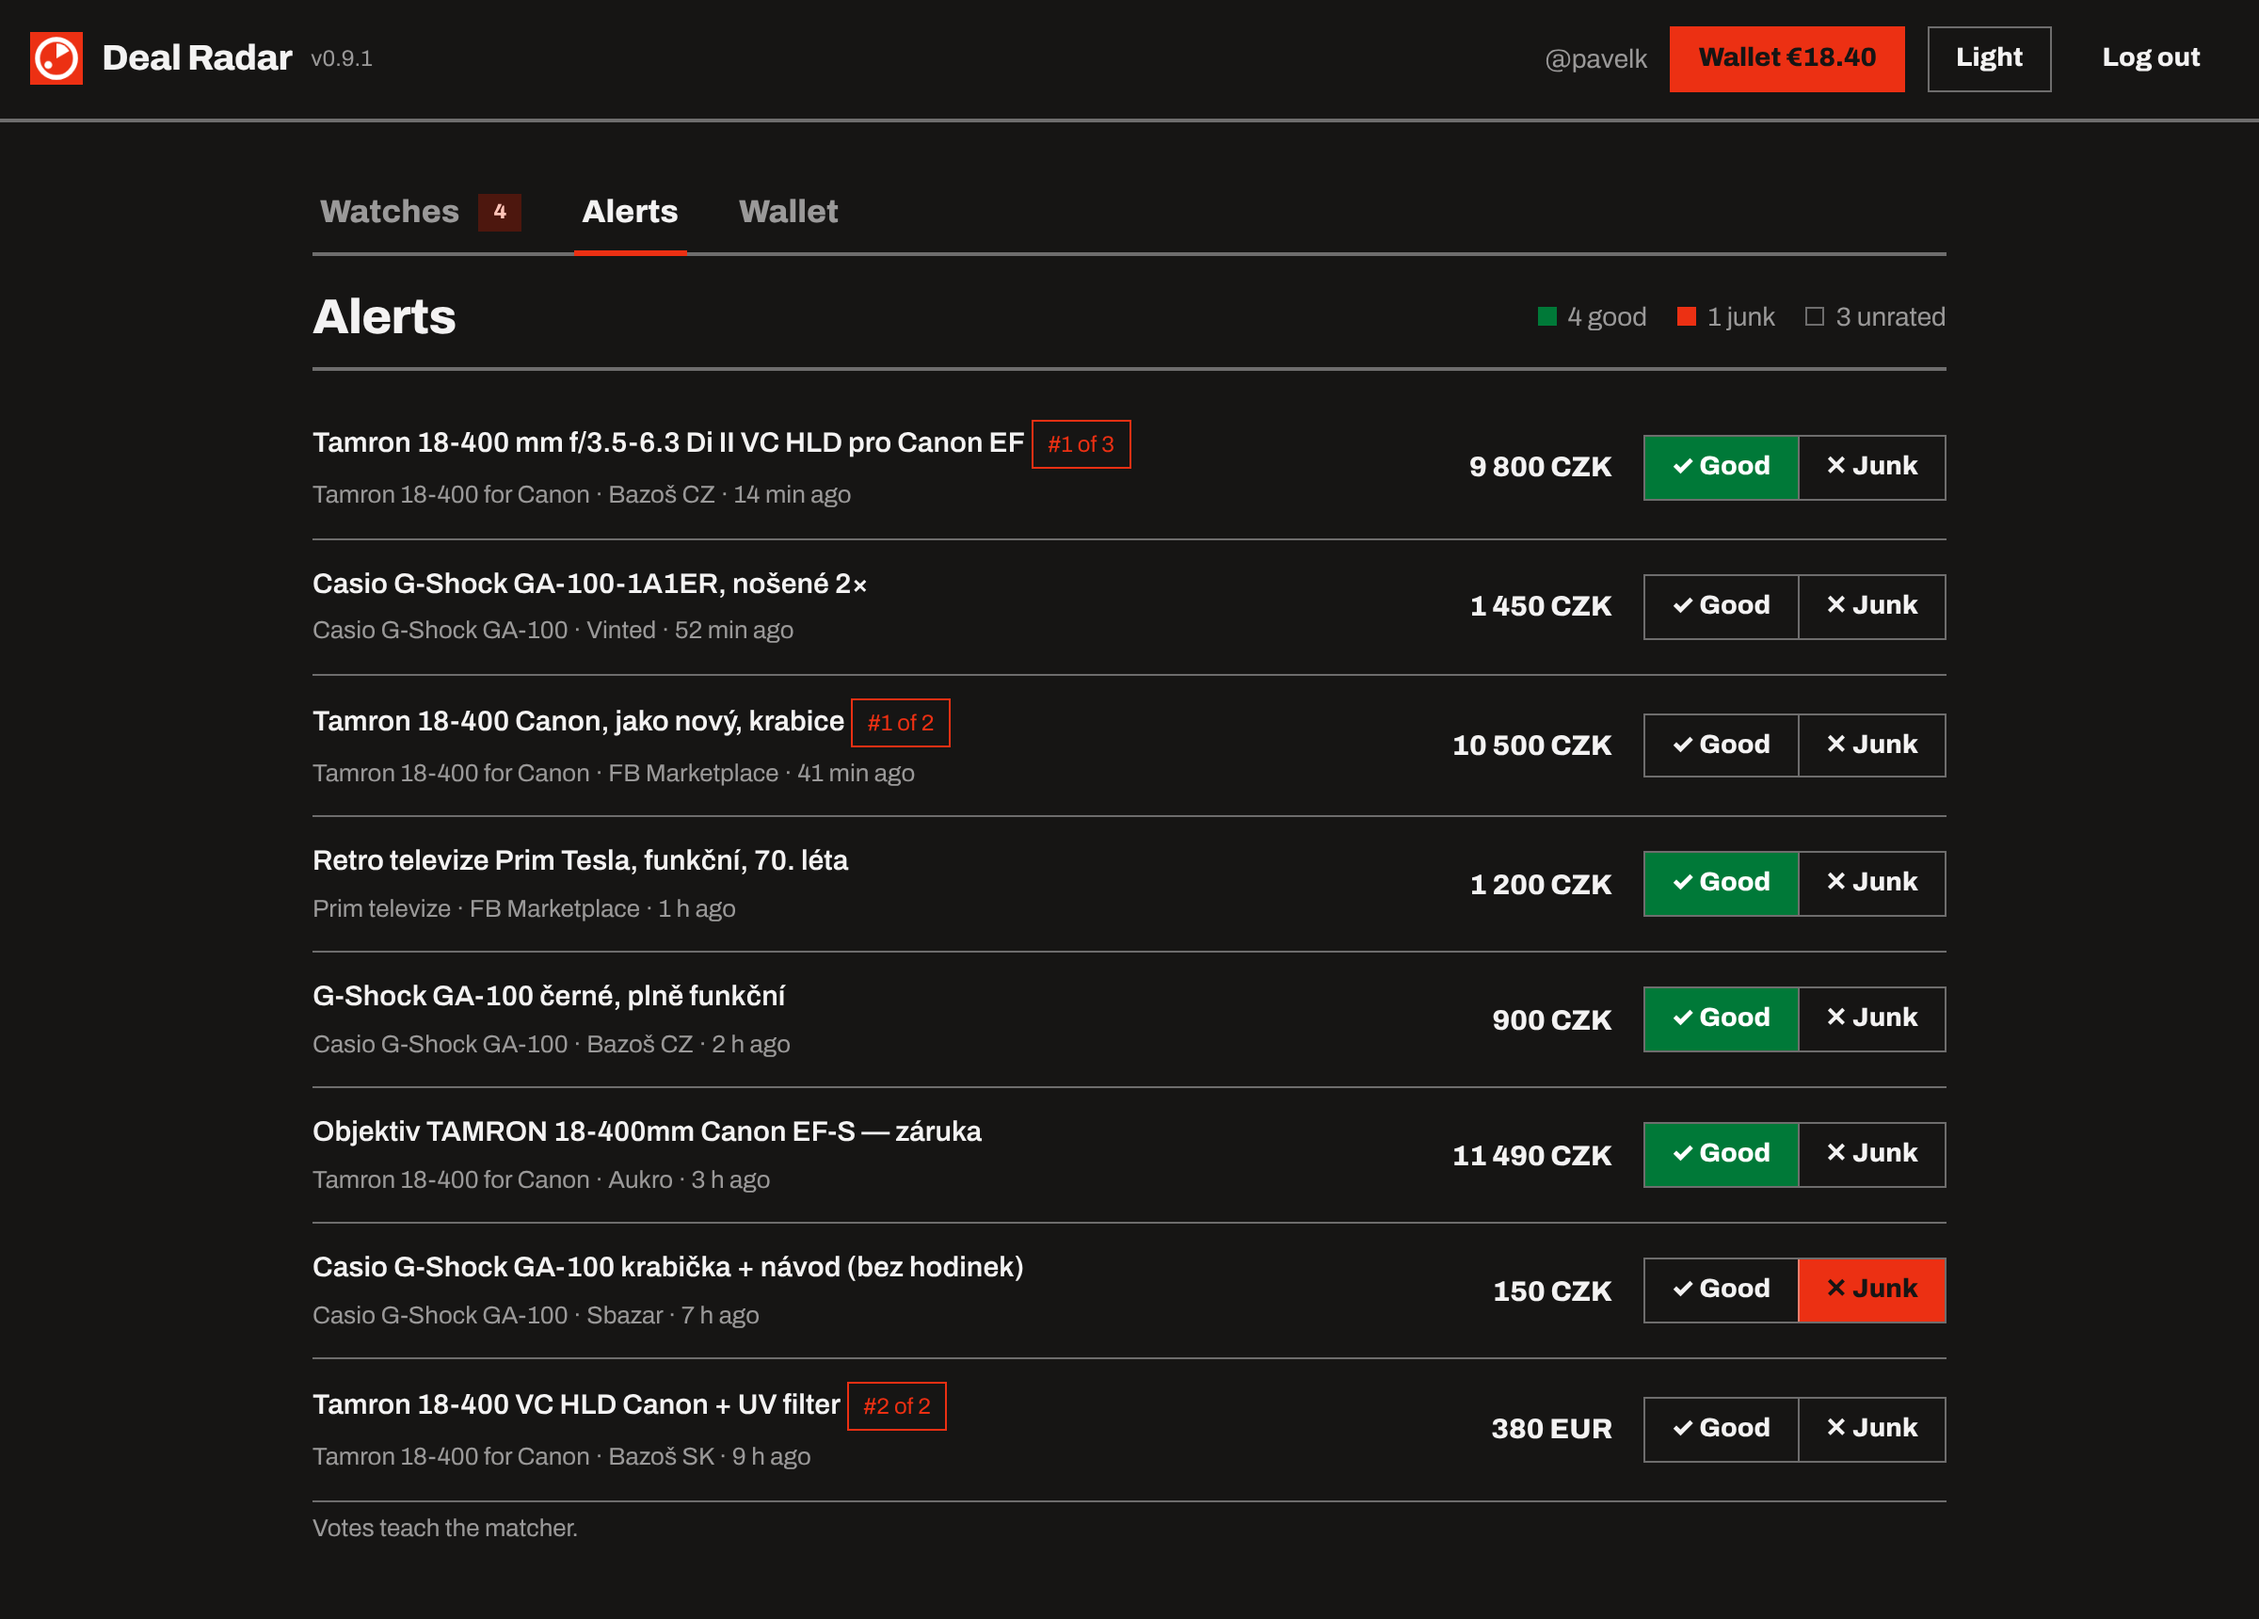
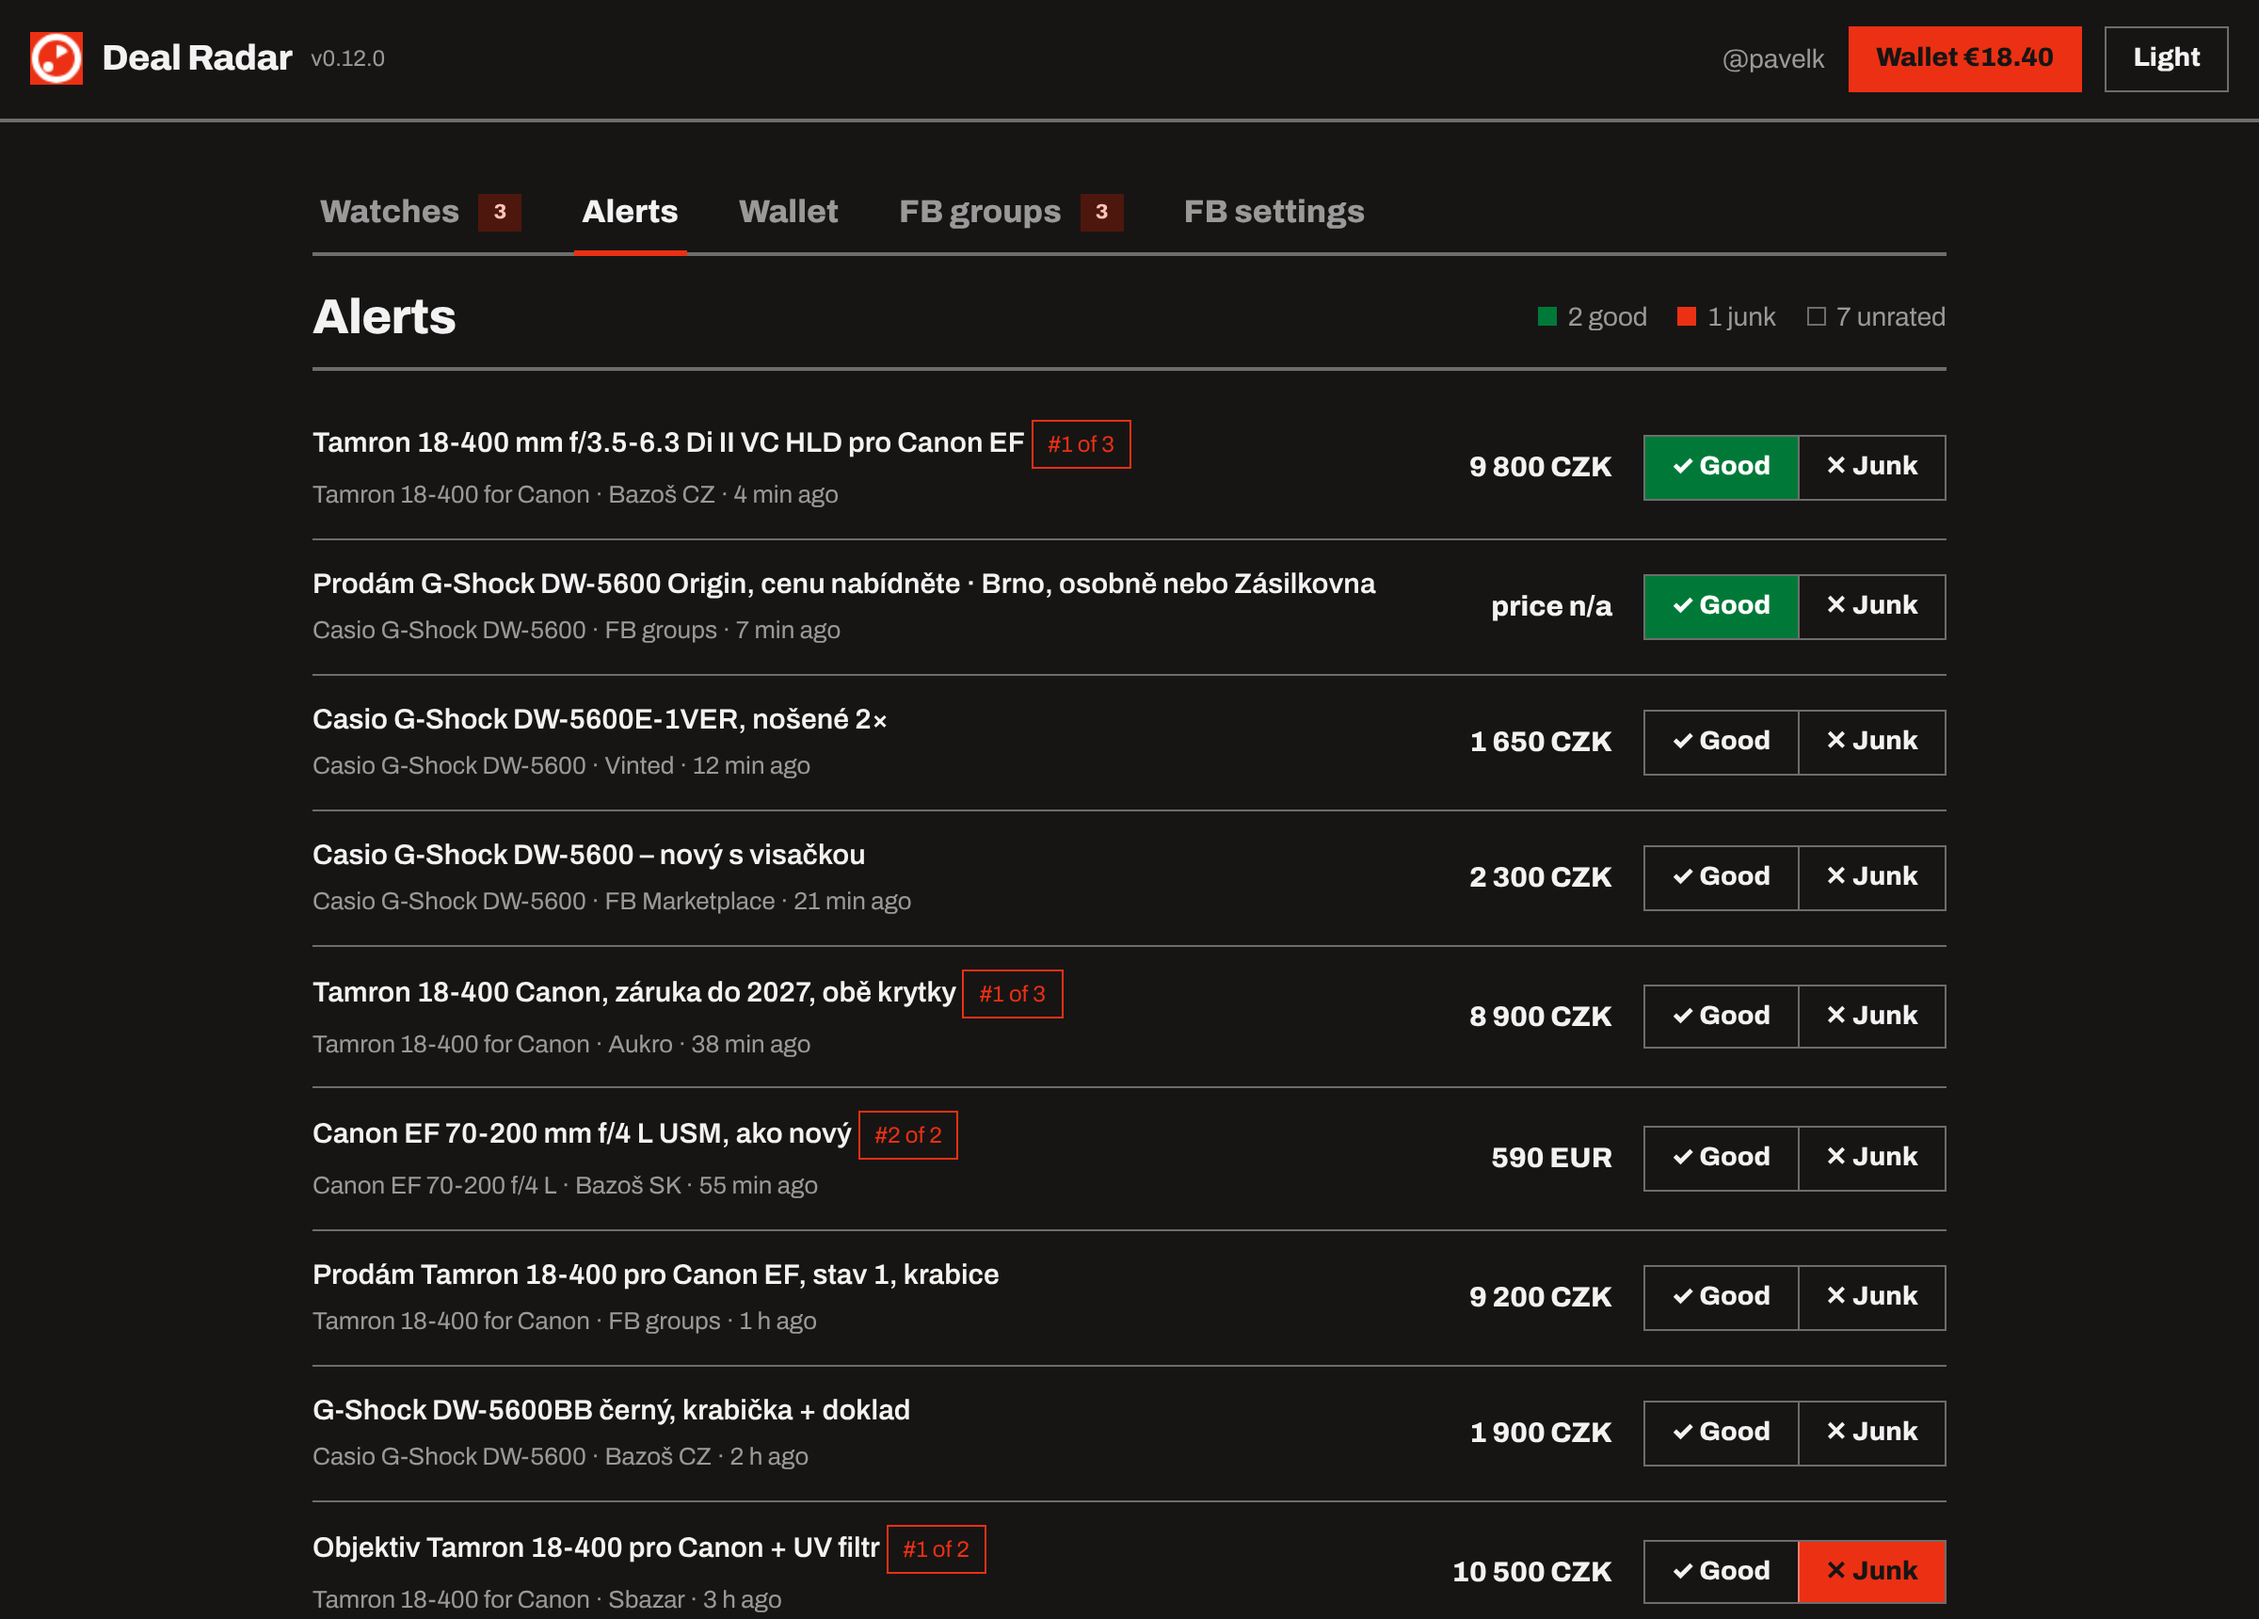
Add files via upload

diff --git a/docs/index.html b/docs/index.html
@@ -4,7 +4,7 @@
 <meta charset="utf-8">
 <meta name="viewport" content="width=device-width, initial-scale=1">
 <title>Deal Radar — be the first to message the seller</title>
-<meta name="description" content="Deal Radar watches Bazoš, Aukro, Sbazar, Vinted, OLX.pl, Allegro.cz and Facebook Marketplace for the things collectors hunt and sends a Telegram alert within a minute of a new listing.">
+<meta name="description" content="Deal Radar watches Facebook Marketplace and your Facebook groups, plus Bazoš, Aukro, Sbazar, Vinted, OLX.pl and Allegro.cz, for the things collectors hunt and sends a Telegram alert within a minute of a new listing.">
 <link rel="icon" href="img/favicon-32.png" sizes="32x32">
 <link rel="apple-touch-icon" href="img/icon-512.png">
 <link rel="stylesheet" href="modernist.css">
@@ -35,6 +35,7 @@
   .fb .cols { grid-template-columns: 1fr; gap: 18px; }
   .fb .shot { margin-top: 0; }
   @media (max-width: 720px) { .fb { grid-template-columns: 1fr; } .fb figure { max-width: 340px; } }
+  .invite { font-size: 14px; color: var(--muted); margin: 14px 0 0; max-width: 60ch; }
   .plan { font-size: 32px; font-weight: 800; letter-spacing: -.015em; }
   .plan small { font-size: 15px; font-weight: 400; color: var(--muted); }
   footer { padding: 28px 0 48px; color: var(--muted); font-size: 14px; }
@@ -57,15 +58,17 @@
 <main class="wrap">
 
   <div class="hero">
+    <div class="kicker">Private beta · invite only</div>
     <h1>Be the first to message the seller.</h1>
-    <p class="lead">Deal Radar watches Czech, Slovak and EU marketplaces for the things you collect and pings you on Telegram within a minute of a new listing — before the deal is gone.</p>
+    <p class="lead">Deal Radar watches Facebook Marketplace and your Facebook groups — plus Bazoš, Aukro, Vinted, OLX and Allegro — and pings you on Telegram within a minute of a new listing, before the deal is gone.</p>
     <div class="cta">
-      <a class="btn primary" href="https://radar.4xs.dev">Open radar.4xs.dev</a>
-      <a class="btn" href="#how">How it works</a>
+      <a class="btn primary" href="#how">How it works</a>
+      <a class="btn" href="https://github.com/kotyzap/deal-radar">View on GitHub</a>
     </div>
+    <p class="invite">Deal Radar is in a private pilot. There is no public download: the browser extension is shared directly with invited users.</p>
     <div class="sources">
-      <span class="tag">Bazoš CZ</span><span class="tag">Bazoš SK</span><span class="tag">Aukro</span>
-      <span class="tag">Sbazar</span><span class="tag">Vinted</span><span class="tag">OLX.pl</span><span class="tag">Allegro.cz</span><span class="tag">FB Marketplace</span>
+      <span class="tag">FB Marketplace</span><span class="tag">FB groups</span><span class="tag">Bazoš CZ</span><span class="tag">Bazoš SK</span><span class="tag">Aukro</span>
+      <span class="tag">Sbazar</span><span class="tag">Vinted</span><span class="tag">OLX.pl</span><span class="tag">Allegro.cz</span>
     </div>
     <figure>
       <img class="shot l" src="img/watches.png" alt="Deal Radar watches list with keywords, price ceiling, sources and bid" width="1200" height="860">
@@ -76,25 +79,26 @@
   <section id="how">
     <h2>How it works</h2>
     <ol class="steps">
-      <li><div><b>Log in with Telegram.</b> No password, no e-mail. Alerts arrive in the same Telegram account.</div></li>
-      <li><div><b>Create a watch.</b> Keywords that must appear, keywords that must not, a price ceiling in CZK (listings in EUR or PLN are converted at the daily ČNB rate), and the sources to watch. A 7-day preview shows what it would have caught.</div></li>
+      <li><div><b>Get an invite.</b> You receive the Deal Radar extension for Chrome or Firefox directly — it isn't in any public store.</div></li>
+      <li><div><b>Log in with Telegram</b> from the extension (popup → Watches). No password, no e-mail. Alerts arrive in the same Telegram account.</div></li>
+      <li><div><b>Create a watch.</b> Keywords that must appear, keywords that must not, a minimum and maximum price in CZK (listings in EUR or PLN are converted at the daily ČNB rate), the sources and, for Facebook, the groups to search. A 7-day preview shows what it would have caught.</div></li>
       <li><div><b>Get the alert.</b> Every source is polled once a minute. A new listing that matches lands in Telegram with title, price and link — you message the seller.</div></li>
       <li><div><b>Vote Good or Junk.</b> One tap per alert tells the radar how well a watch is tuned.</div></li>
     </ol>
     <figure>
-      <img class="shot l" src="img/editor.png" alt="Watch editor with a 7-day preview of matching listings" width="1200" height="1048" loading="lazy">
-      <img class="shot d" src="img/editor-dark.png" alt="Watch editor, dark theme" width="1200" height="1044" loading="lazy">
-      <figcaption>The editor shows what the watch would have caught in the last 7 days.</figcaption>
+      <img class="shot l" src="img/editor.png" alt="Watch editor with min and max price, sources, FB groups and a 7-day preview of matching listings" width="1200" height="1339" loading="lazy">
+      <img class="shot d" src="img/editor-dark.png" alt="Watch editor, dark theme" width="1200" height="1339" loading="lazy">
+      <figcaption>The editor: price range, sources, the watch's FB groups, and what it would have caught in the last 7 days.</figcaption>
     </figure>
     <figure>
       <img class="shot l" src="img/alerts.png" alt="Alerts list with prices, sources and Good / Junk votes" width="1200" height="860" loading="lazy">
       <img class="shot d" src="img/alerts-dark.png" alt="Alerts list, dark theme" width="1200" height="860" loading="lazy">
-      <figcaption>Every alert also goes to Telegram. “#1 of 3” = you heard first among three bidders.</figcaption>
+      <figcaption>Every alert also goes to Telegram. “#1 of 3” = you heard first among three bidders; “#2 of 2” = someone outbid you and heard a minute earlier.</figcaption>
     </figure>
   </section>
 
   <section id="fb">
-    <h2>Facebook Marketplace, in your own browser</h2>
+    <h2>Facebook Marketplace and groups, in your own browser</h2>
     <div class="fb">
     <div class="cols">
       <div>
@@ -102,8 +106,16 @@
         <p>FB has no public search API, so the extension checks your searches from your normal, logged-in Chrome or Firefox — one pinned tab, every ~3 minutes, newest first, Prague + 500 km.</p>
       </div>
       <div>
+        <h3>Your FB groups</h3>
+        <p>Many deals are posted only in collector groups. On the FB groups tab you tick up to 10 groups you've joined; each watch then picks which of them to search. The extension runs Facebook's own search inside each group for the watch's keywords, newest posts first, about every 10 minutes.</p>
+      </div>
+      <div>
+        <h3>Only offers, only for you</h3>
+        <p>A group post alerts only if it looks like an offer — a price or a sale word (prodám, na prodej, cenu nabídněte, sprzedam…) and no “wanted” word (koupím, hledám, kupię…). Group posts are private: they alert only the person whose browser found them, never go into the shared index and aren't part of the bidding.</p>
+      </div>
+      <div>
         <h3>Nothing leaves but listings</h3>
-        <p>The extension pushes only the cards it sees (title, price, link) to the radar. Your Facebook session stays in your browser.</p>
+        <p>The extension pushes only the cards and posts it sees (title, price, link) to the radar. Your Facebook session stays in your browser.</p>
       </div>
       <div>
         <h3>Other sources need no extension</h3>
@@ -111,11 +123,16 @@
       </div>
     </div>
     <figure>
-      <img class="shot l" src="img/popup.png" alt="Extension popup: FB searches, last check, latest alerts" width="340" height="528" loading="lazy">
-      <img class="shot d" src="img/popup-dark.png" alt="Extension popup, dark theme" width="340" height="528" loading="lazy">
+      <img class="shot l" src="img/popup.png" alt="Extension popup: FB Marketplace and group searches, last check, latest alerts" width="340" height="582" loading="lazy">
+      <img class="shot d" src="img/popup-dark.png" alt="Extension popup, dark theme" width="340" height="582" loading="lazy">
       <figcaption>Extension popup.</figcaption>
     </figure>
     </div>
+    <figure>
+      <img class="shot l" src="img/groups.png" alt="FB groups tab: tick up to 10 joined groups that watches may search" width="1200" height="620" loading="lazy">
+      <img class="shot d" src="img/groups-dark.png" alt="FB groups tab, dark theme" width="1200" height="620" loading="lazy">
+      <figcaption>FB groups tab: tick the groups Deal Radar may search; each watch picks from these.</figcaption>
+    </figure>
   </section>
 
   <section id="pricing">
@@ -142,13 +159,13 @@
 
   <section id="status">
     <h2>Status</h2>
-    <p>Private pilot — login is by invite. Built on Cloudflare Workers + D1, Telegram Login and a Chrome/Firefox extension. Source and changelog on <a href="https://github.com/kotyzap/deal-radar">GitHub</a>.</p>
+    <p>Private beta — invite only. No public download: the extension is shared directly with pilot users, and only invited Telegram accounts can log in. Built on Cloudflare Workers + D1, Telegram Login and a Chrome/Firefox extension. Source and changelog on <a href="https://github.com/kotyzap/deal-radar">GitHub</a>.</p>
   </section>
 
 </main>
 
 <footer class="wrap">
-  <a href="https://4xs.dev">4xs.dev</a> · Pavel Kotyza · <a href="https://radar.4xs.dev">radar.4xs.dev</a> · <a href="https://ko-fi.com/pavelk">Ko-fi</a>
+  <a href="https://4xs.dev">4xs.dev</a> · Pavel Kotyza · <a href="https://github.com/kotyzap/deal-radar">GitHub</a> · <a href="https://ko-fi.com/pavelk">Ko-fi</a>
 </footer>
 
 <script>
